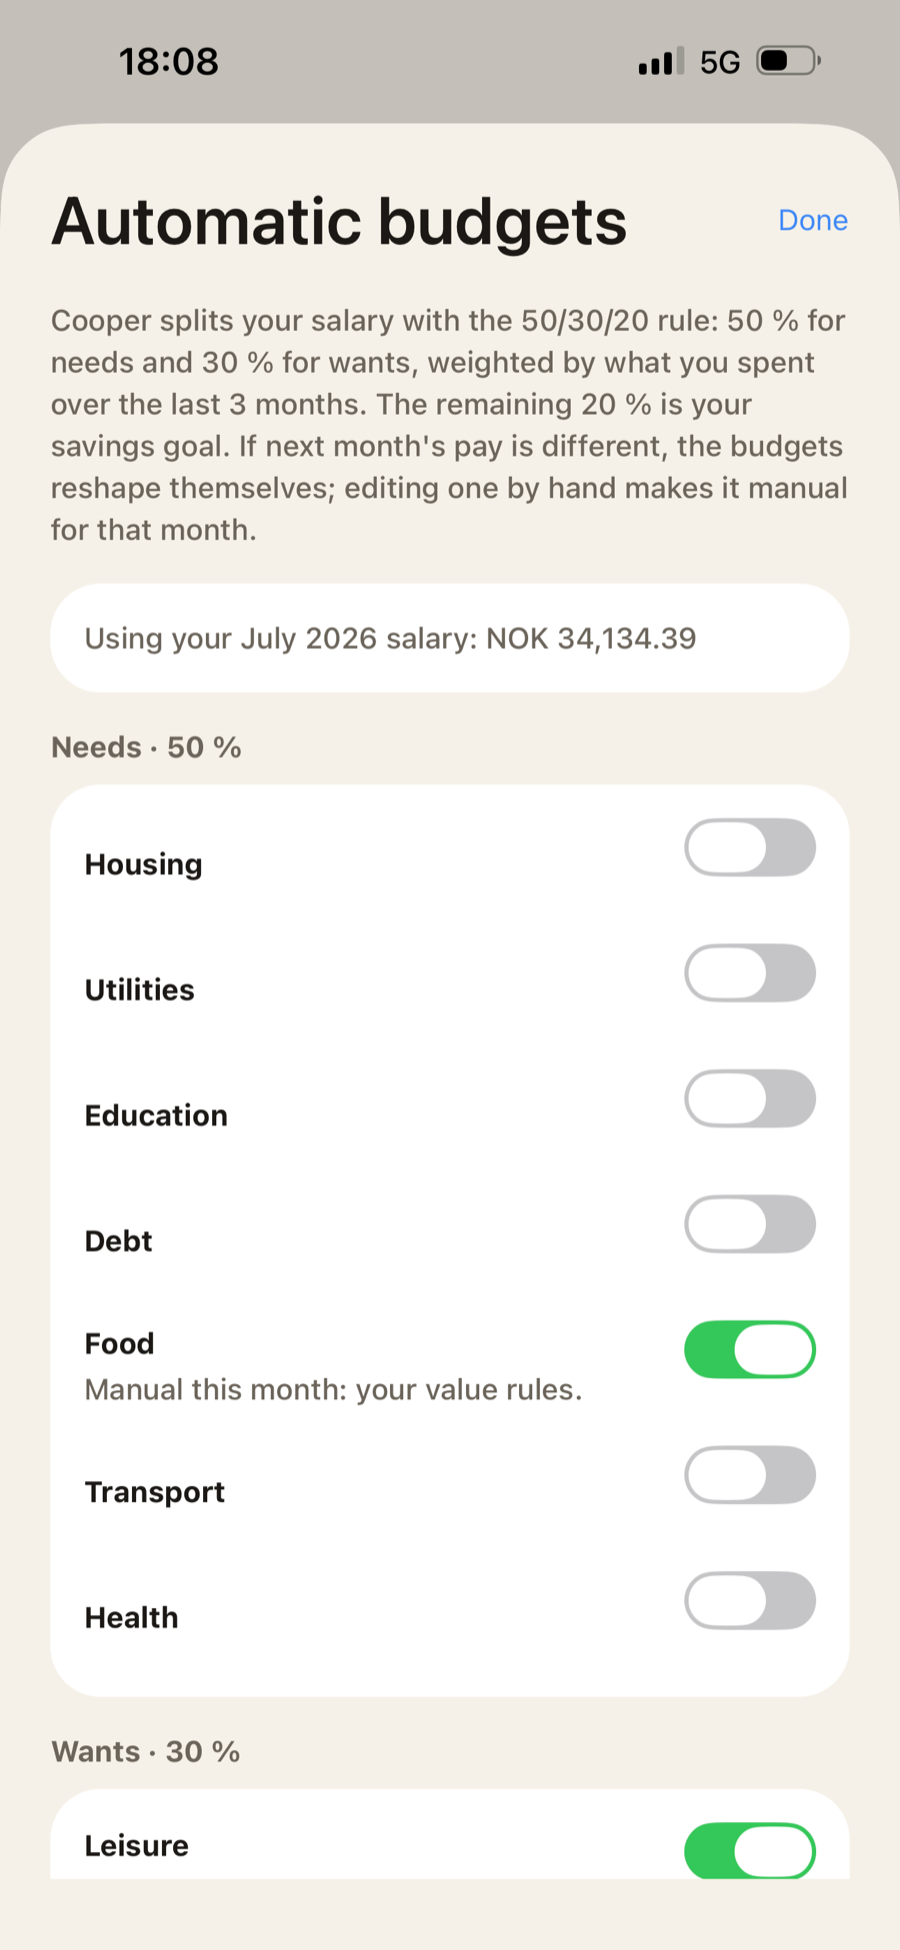
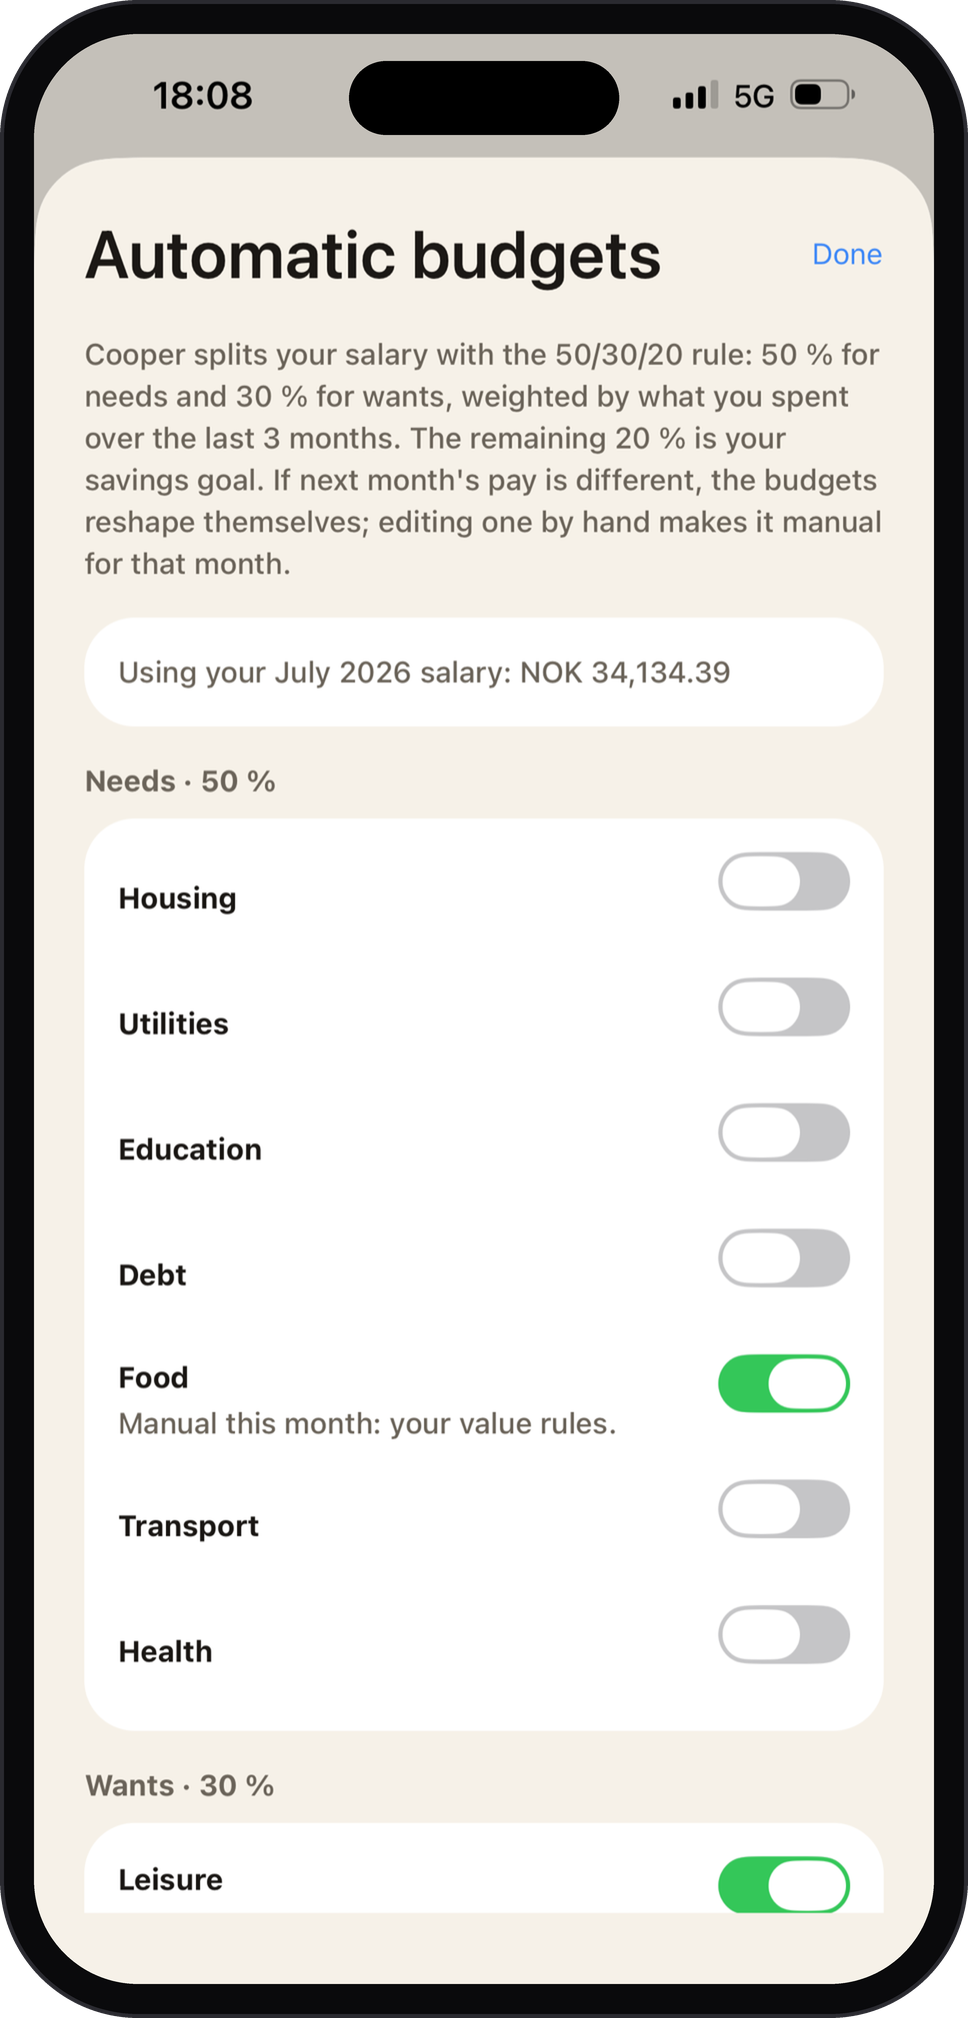
Add FTC mobile screens, frame Cooper shots, float phone covers (#1)
- Add the FLÅM Tourist Card (FTC) mobile app to the portfolio: 10 real
  device screens shown in the phone carousel, and un-hide the project.
- ProjectCard: float phone-layout covers on a soft violet glow instead
  of boxing them in a dark 16/10 frame, removing the black letterbox
  bars behind portrait device shots.
- Cooper: wrap the 4 screenshots in an iPhone frame (baked into the PNGs)
  and switch it to the phone layout so it matches FTC and iWalkie.

Claude-Session: https://claude.ai/code/session_01VdhhQ1n1xM7Xw5jZhYNJor

diff --git a/data/portfolio.ts b/data/portfolio.ts
@@ -264,32 +264,58 @@ export const projects: Project[] = [
       "Turborepo",
       "pnpm",
     ],
-    // Drop real screenshots in /public/projects/ and set `src` (e.g. "/projects/flam-mobile.png")
-    // — the screenshot then replaces the vector `mockup` automatically.
+    // Real mobile screens rendered in the phone carousel (see `imageLayout`).
+    imageLayout: "phone",
     images: [
       {
-        src: "",
-        mockup: "flam-mobile",
-        alt: "Mobile app booking flow with the checkout bundle and payout split",
-        caption: "Mobile app — bundle experiences, then split the payment across providers",
+        src: "/projects/ftc-home.png",
+        alt: "FTC home screen — a Discover Flåm hero over a fjord photo with a plan-your-trip date picker",
+        caption: "Home — discover Flåm and plan your dates",
       },
       {
-        src: "",
-        mockup: "flam-wallet",
-        alt: "Wallet pass showing an HMAC-signed QR code that validates offline",
-        caption: "Offline-first Wallet pass with an HMAC-signed QR",
+        src: "/projects/ftc-explore.png",
+        alt: "Explore screen listing bundled experience packs with filters for hotels, activities and dining",
+        caption: "Explore — browse bundled experience packs",
       },
       {
-        src: "",
-        mockup: "flam-desktop",
-        alt: "Electron desktop dashboard with KPIs, a bookings chart and partner list",
-        caption: "Desktop dashboard — sales, bookings and partner payouts",
+        src: "/projects/ftc-pack-weekend.png",
+        alt: "Weekend Retreat pack detail breaking down each included experience and the total per person",
+        caption: "Pack detail — every experience bundled into one price",
       },
       {
-        src: "",
-        mockup: "flam-web",
-        alt: "Web booking page with the hero and the three card tiers",
-        caption: "Web app — plan a stay from the browser",
+        src: "/projects/ftc-pack-extreme.png",
+        alt: "Extreme Adventure pack detail with its own set of activities and pricing",
+        caption: "Another pack — Extreme Adventure",
+      },
+      {
+        src: "/projects/ftc-cart.png",
+        alt: "Cart screen showing a confirmed, paid order with the total and an invoice download",
+        caption: "Checkout — one payment, split across providers behind the scenes",
+      },
+      {
+        src: "/projects/ftc-pass.png",
+        alt: "My Pass screen with the active FLÅM Tourist Card, an HMAC-signed QR that works offline, and Add to Apple Wallet",
+        caption: "My Pass — the offline-first QR, add it to Apple Wallet",
+      },
+      {
+        src: "/projects/ftc-my-trip.png",
+        alt: "My Trip itinerary with a per-day timeline of accommodation, transport and activities to schedule",
+        caption: "My Trip — a per-day itinerary built from your pack",
+      },
+      {
+        src: "/projects/ftc-notifications.png",
+        alt: "Notifications screen listing trip and booking updates",
+        caption: "Notifications — trip and booking updates",
+      },
+      {
+        src: "/projects/ftc-account.png",
+        alt: "Account screen with profile, language and settings",
+        caption: "Account — profile, language and settings",
+      },
+      {
+        src: "/projects/ftc-register.png",
+        alt: "Create account screen for registering to save a trip and get the pass",
+        caption: "Register — save a trip and claim your pass",
       },
     ],
     year: "2025–2026",
@@ -303,8 +329,6 @@ export const projects: Project[] = [
     ],
     featured: true,
     status: "In development",
-    // Not ready to show yet — kept in the data so it's a one-line change to bring back.
-    hidden: true,
   },
   {
     slug: "cooper",
@@ -341,10 +365,10 @@ export const projects: Project[] = [
       "Jest + RN Testing Library",
       "EAS Build",
     ],
+    imageLayout: "phone",
     images: [
       {
         src: "/projects/cooper-dashboard.png",
-        mockup: "cooper-dashboard",
         alt: "COOPER dashboard showing the monthly balance and budget vs. real by category",
         caption: "Dashboard — budget vs. real, by category",
       },
@@ -355,13 +379,11 @@ export const projects: Project[] = [
       },
       {
         src: "/projects/cooper-registro.png",
-        mockup: "cooper-registro",
         alt: "Movements ledger listing income and expenses for the month",
         caption: "Registro — logging income and expenses",
       },
       {
         src: "/projects/cooper-hierarchy.png",
-        mockup: "cooper-hierarchy",
         alt: "Savings hierarchy screen with five levels and the current one in progress",
         caption: "Savings hierarchy — what to fund next",
       },

diff --git a/components/ProjectCard.tsx b/components/ProjectCard.tsx
@@ -11,6 +11,7 @@ import { ProjectLinks } from "@/components/ProjectLinks";
 export function ProjectCard({ project, wide = false }: { project: Project; wide?: boolean }) {
   const featured = project.featured;
   const cover = project.images?.[0];
+  const isPhone = project.imageLayout === "phone";
   const ref = useRef<HTMLElement>(null);
   const [pos, setPos] = useState({ x: 0, y: 0 });
   const [active, setActive] = useState(false);
@@ -24,27 +25,44 @@ export function ProjectCard({ project, wide = false }: { project: Project; wide?
   /* Preview of the project's main screen — a screenshot once there is one,
      the vector mockup until then. */
   const preview = cover && (cover.src || cover.mockup) && (
-    <div className="relative overflow-hidden rounded-xl border border-ink-700 bg-ink-950/60 shadow-[0_24px_70px_-32px_rgba(124,92,255,0.75)]">
-      <div className="aspect-[16/10] w-full">
-        {cover.src ? (
-          // eslint-disable-next-line @next/next/no-img-element
-          <img
-            src={cover.src}
-            alt={cover.alt}
-            loading="lazy"
-            className="h-full w-full object-contain transition-transform duration-500 group-hover:scale-[1.04] motion-reduce:transform-none motion-reduce:transition-none"
-          />
-        ) : (
-          <ProjectMockup
-            kind={cover.mockup!}
-            label={cover.alt}
-            className="transition-transform duration-500 group-hover:scale-[1.04] motion-reduce:transform-none motion-reduce:transition-none"
-          />
-        )}
+    isPhone && cover.src ? (
+      /* Phone-layout projects: the cover is a portrait device shot, so float it
+         on a soft violet glow instead of boxing it in a dark frame with black
+         letterbox bars on either side. */
+      <div className="relative flex items-center justify-center px-4 py-2">
+        <div className="pointer-events-none absolute left-1/2 top-1/2 h-56 w-56 -translate-x-1/2 -translate-y-1/2 rounded-full bg-accent-violet/25 blur-3xl" />
+        {/* eslint-disable-next-line @next/next/no-img-element */}
+        <img
+          src={cover.src}
+          alt={cover.alt}
+          loading="lazy"
+          draggable={false}
+          className="relative max-h-[380px] w-auto select-none drop-shadow-[0_30px_60px_rgba(124,92,255,0.45)] transition-transform duration-500 group-hover:scale-[1.04] motion-reduce:transform-none motion-reduce:transition-none"
+        />
       </div>
-      {/* Keeps the visual anchored to the card instead of floating on its own */}
-      <div className="pointer-events-none absolute inset-x-0 bottom-0 h-16 bg-gradient-to-t from-ink-900/70 to-transparent" />
-    </div>
+    ) : (
+      <div className="relative overflow-hidden rounded-xl border border-ink-700 bg-ink-950/60 shadow-[0_24px_70px_-32px_rgba(124,92,255,0.75)]">
+        <div className="aspect-[16/10] w-full">
+          {cover.src ? (
+            // eslint-disable-next-line @next/next/no-img-element
+            <img
+              src={cover.src}
+              alt={cover.alt}
+              loading="lazy"
+              className="h-full w-full object-contain transition-transform duration-500 group-hover:scale-[1.04] motion-reduce:transform-none motion-reduce:transition-none"
+            />
+          ) : (
+            <ProjectMockup
+              kind={cover.mockup!}
+              label={cover.alt}
+              className="transition-transform duration-500 group-hover:scale-[1.04] motion-reduce:transform-none motion-reduce:transition-none"
+            />
+          )}
+        </div>
+        {/* Keeps the visual anchored to the card instead of floating on its own */}
+        <div className="pointer-events-none absolute inset-x-0 bottom-0 h-16 bg-gradient-to-t from-ink-900/70 to-transparent" />
+      </div>
+    )
   );
 
   return (
